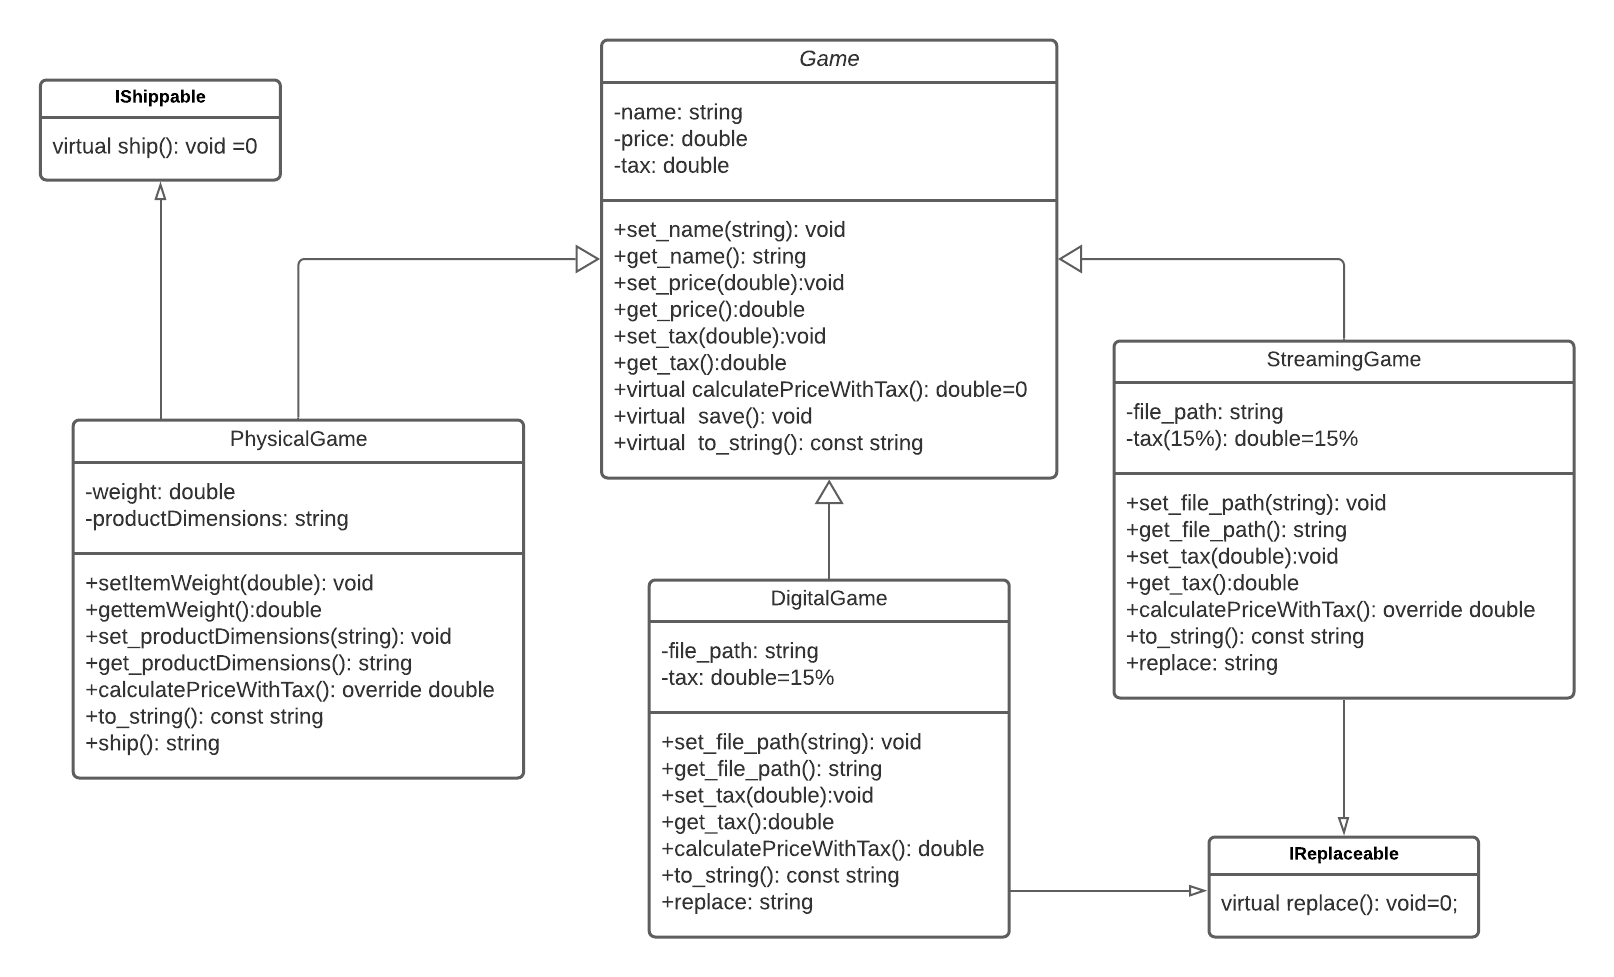
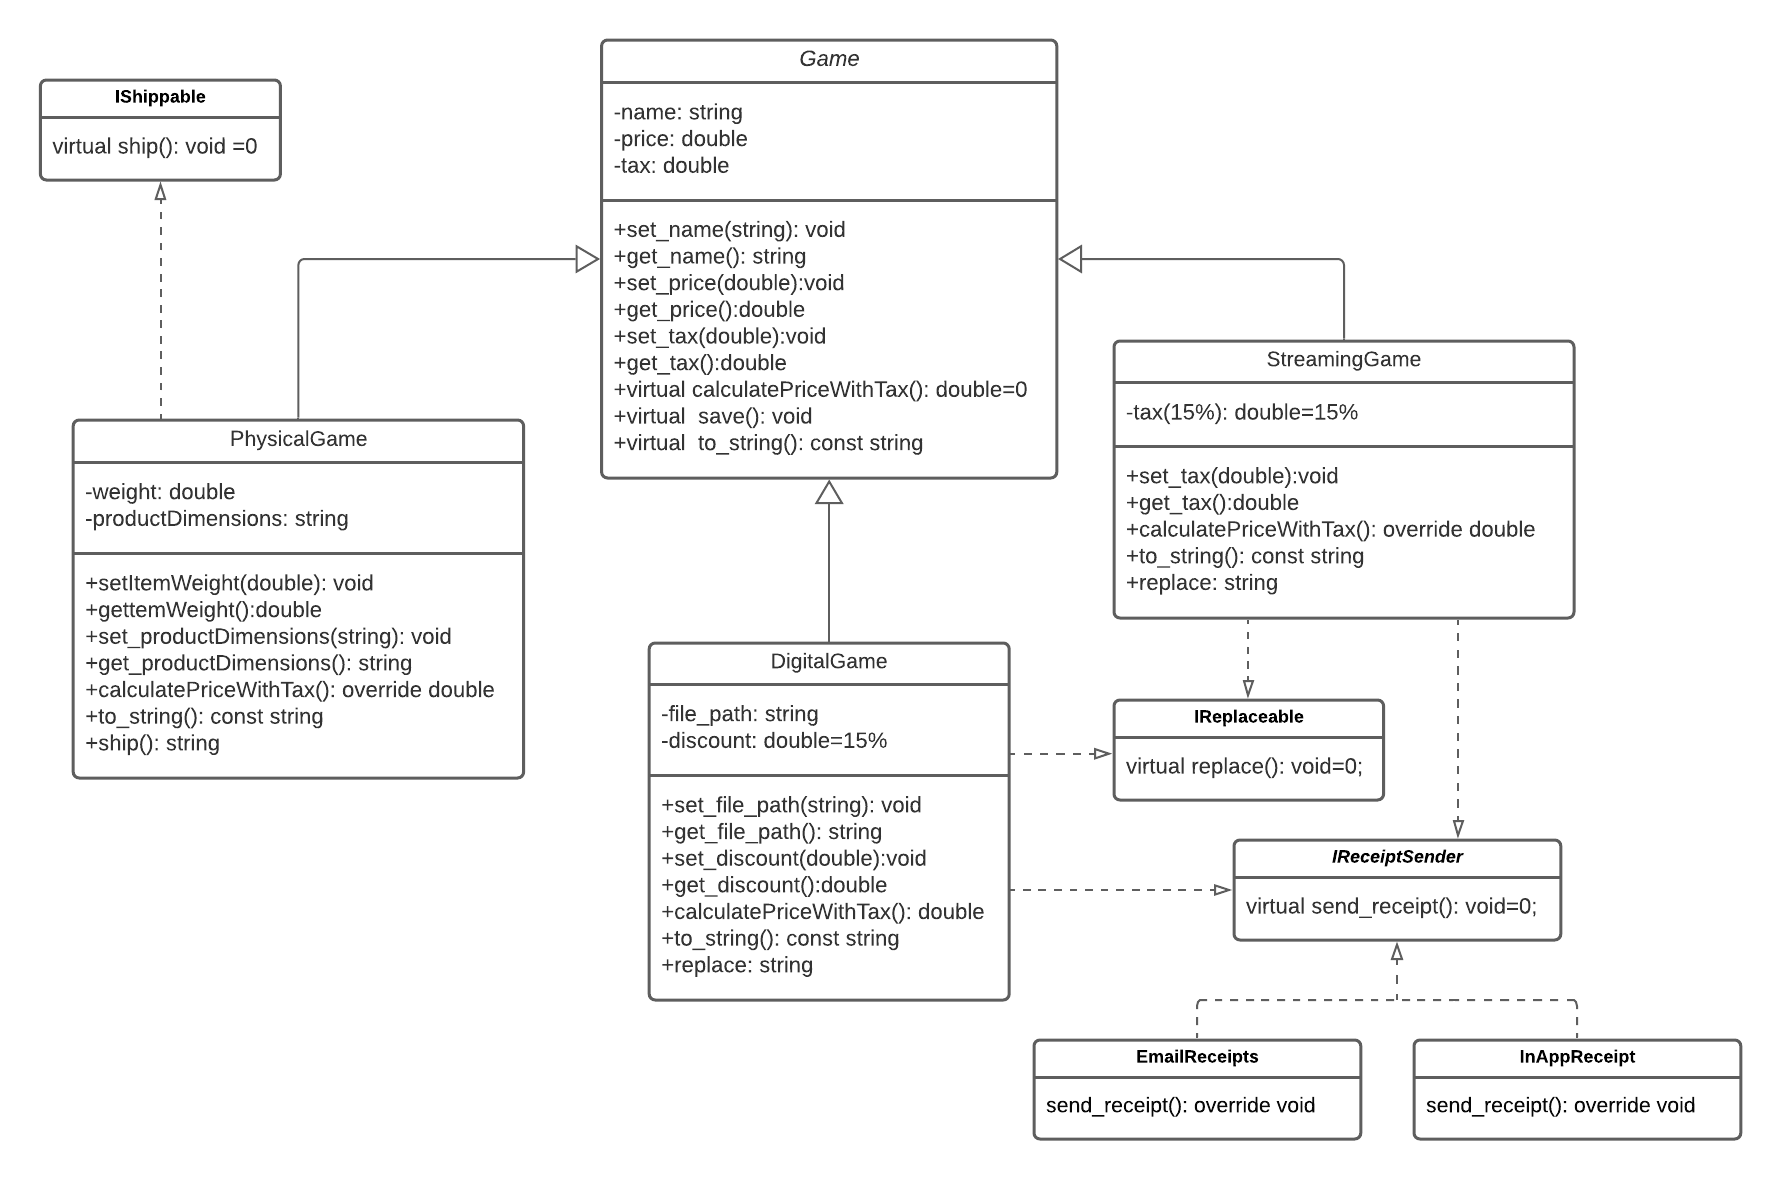
Se agregó interfaz de Recibos.

diff --git a/StreamingGame.cpp b/StreamingGame.cpp
@@ -1,16 +1,18 @@
 #include "StreamingGame.h"
 
+double StreamingGame::discount() {return getPrice() * 0.12;}
+
 StreamingGame::StreamingGame() {}
 
-StreamingGame::StreamingGame(const std::string &name, double price, double tax, float tax1) : Game(name, price, tax),
-                                                                                              tax(tax1) {}
+StreamingGame::StreamingGame(const std::string &name, double price, double tax, float tax1) : Game(name, price, tax),tax(tax1) {}
+
 StreamingGame::~StreamingGame(){}
 
-double StreamingGame::calculatePriceWithTax(){
-
-}
-
 void StreamingGame::replace() { "This product have a replacement"; }
+
+void StreamingGame::purchase(IReceiptSender* receipt_sender) {
+    receipt_sender->send_receipt();
+}
 
 std::string StreamingGame::toString() const{
     std::ostringstream output;

diff --git a/DigitalGame.cpp b/DigitalGame.cpp
@@ -6,7 +6,7 @@
 
 DigitalGame::DigitalGame(){
     file_path="";
-    discount=15;
+    discount=0.15;
 }
 
 DigitalGame::DigitalGame(const std::string &name, double price, double tax):Game(name,price,tax){}
@@ -36,6 +36,10 @@ double DigitalGame::calculatePriceWithTax(){
 }
 
 void DigitalGame::replace() { "This product have a replacement"; }
+
+void DigitalGame::purchase(IReceiptSender* receipt_sender) {
+    receipt_sender->send_receipt();
+}
 
 std::string DigitalGame::toString() const{
     std::ostringstream output;

diff --git a/StreamingGame.h b/StreamingGame.h
@@ -3,9 +3,14 @@
 
 #include "Game.h"
 #include "IReplaceable.h"
+#include "IReceiptSender.h"
 
-class StreamingGame : public Game, IReplaceable {
+class StreamingGame : public Game, IReplaceable, IReceiptSender {
+
     float tax=0.15;
+
+    double discount() override;
+
 public:
     StreamingGame();
 
@@ -13,9 +18,9 @@ public:
 
     ~StreamingGame();
 
-    double calculatePriceWithTax();
-
     void replace() override;
+
+    void purchase(IReceiptSender*);
 
     std::string toString() const;
 };

diff --git a/DigitalGame.h b/DigitalGame.h
@@ -7,8 +7,9 @@
 
 #include "Game.h"
 #include "IReplaceable.h"
+#include "IReceiptSender.h"
 
-class DigitalGame : public Game, IReplaceable{
+class DigitalGame : public Game, IReplaceable, IReceiptSender {
     std::string file_path;
     float discount=0.15;
 
@@ -34,6 +35,8 @@ public:
     void replace() override;
 
     std::string toString() const;
+
+    void purchase(IReceiptSender*);
 };
 
 #endif //LAB04_SOLID_DIGITALGAME_H

diff --git a/Game.cpp b/Game.cpp
@@ -36,11 +36,9 @@ void Game::setTax(double tax) {
 
 double Game::discount() { return getPrice(); }
 
-double Game::calculatePriceWithTax(Currency var) {
-    auto final_price = discount();
-}
+double Game::calculatePriceWithTax(Currency var) {auto final_price = discount();}
 
-/**
+/*
  * Save the information into a text file
  * @param filename the name of the text file
  */

diff --git a/EmailReceipts.h b/EmailReceipts.h
@@ -1,0 +1,10 @@
+#ifndef LAB04_SOLID_EMAILRECEIPTS_H
+#define LAB04_SOLID_EMAILRECEIPTS_H
+
+#include "IReceiptSender.h"
+
+class EmailReceipts : public IReceiptSender{
+    void send_receipt() override;
+};
+
+#endif //LAB04_SOLID_EMAILRECEIPTS_H

diff --git a/InAppReceipt.h b/InAppReceipt.h
@@ -1,0 +1,10 @@
+#ifndef LAB04_SOLID_INAPPRECEIPT_H
+#define LAB04_SOLID_INAPPRECEIPT_H
+
+#include "IReceiptSender.h"
+
+class InAppReceipt : public IReceiptSender {
+    void send_receipt() override;
+};
+
+#endif //LAB04_SOLID_INAPPRECEIPT_H

diff --git a/IReceiptSender.h b/IReceiptSender.h
@@ -1,0 +1,9 @@
+#ifndef LAB04_SOLID_IRECEIPTSENDER_H
+#define LAB04_SOLID_IRECEIPTSENDER_H
+
+class IReceiptSender {
+public:
+    virtual void send_receipt() = 0;
+};
+
+#endif //LAB04_SOLID_IRECEIPTSENDER_H
